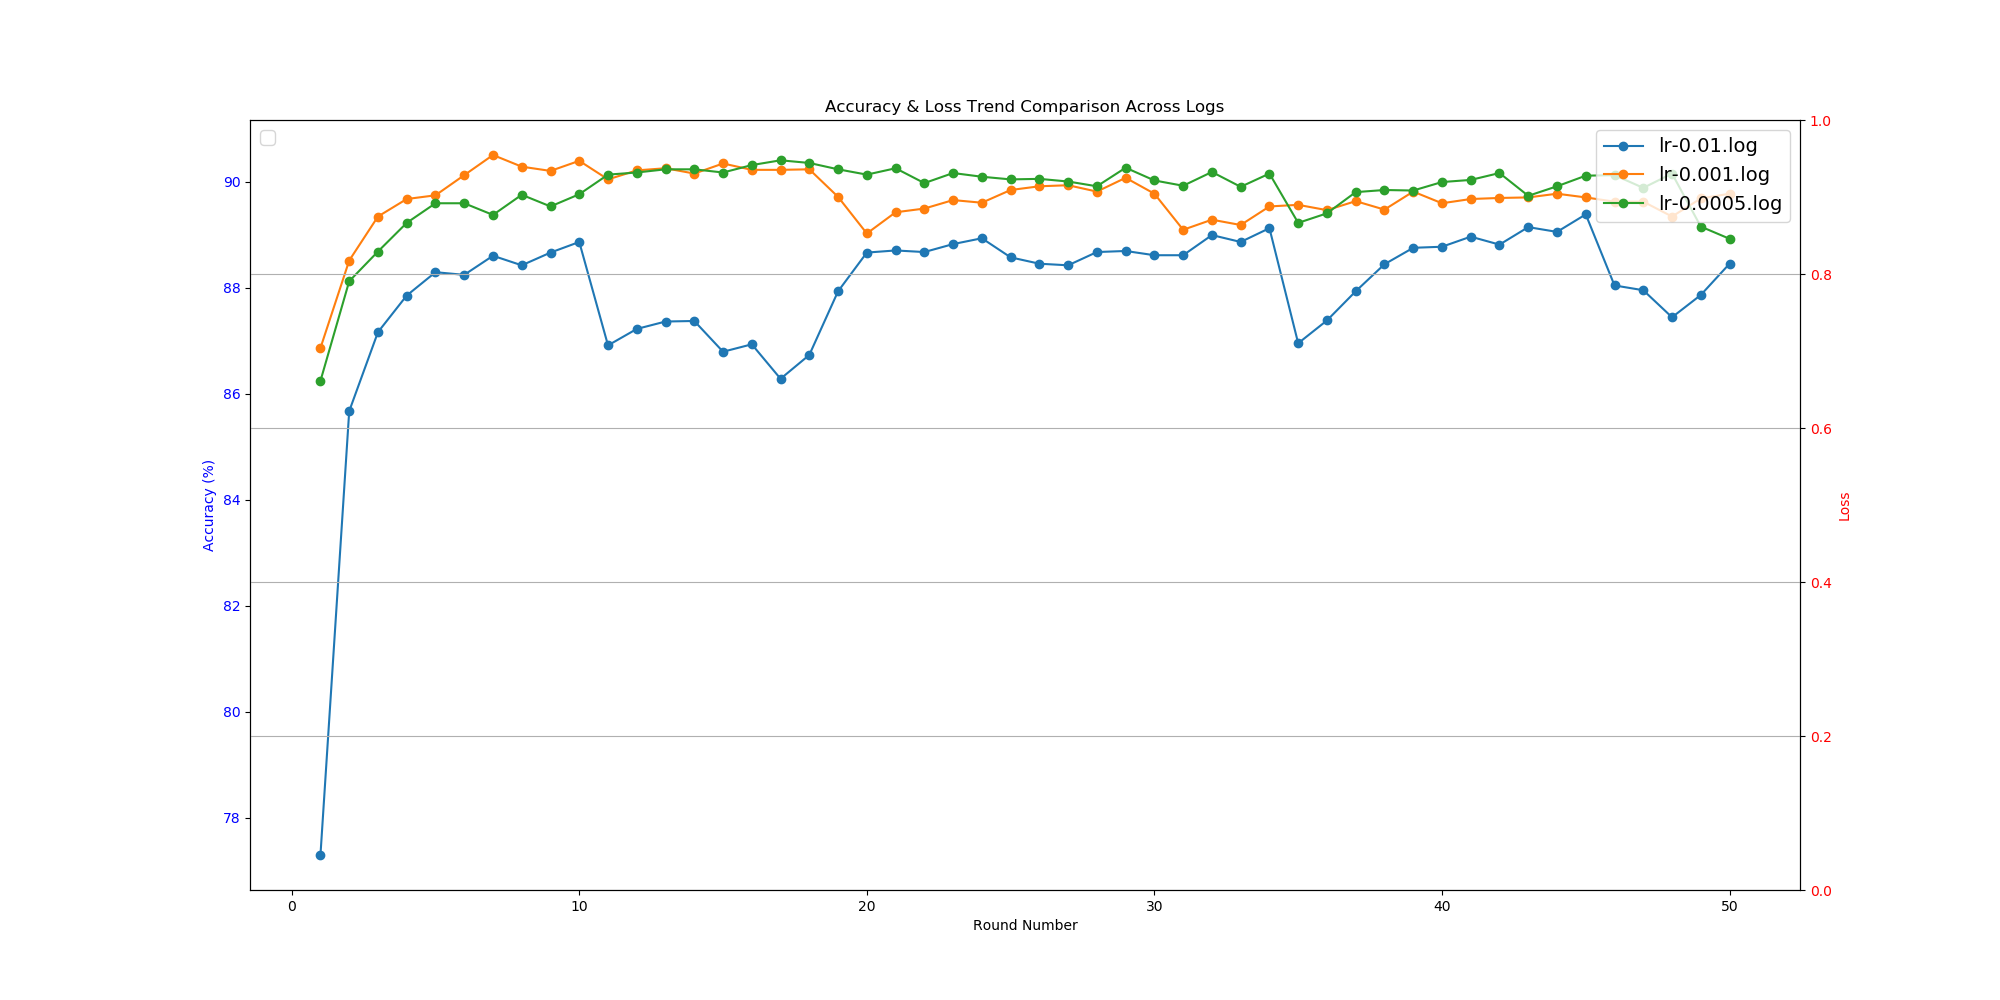
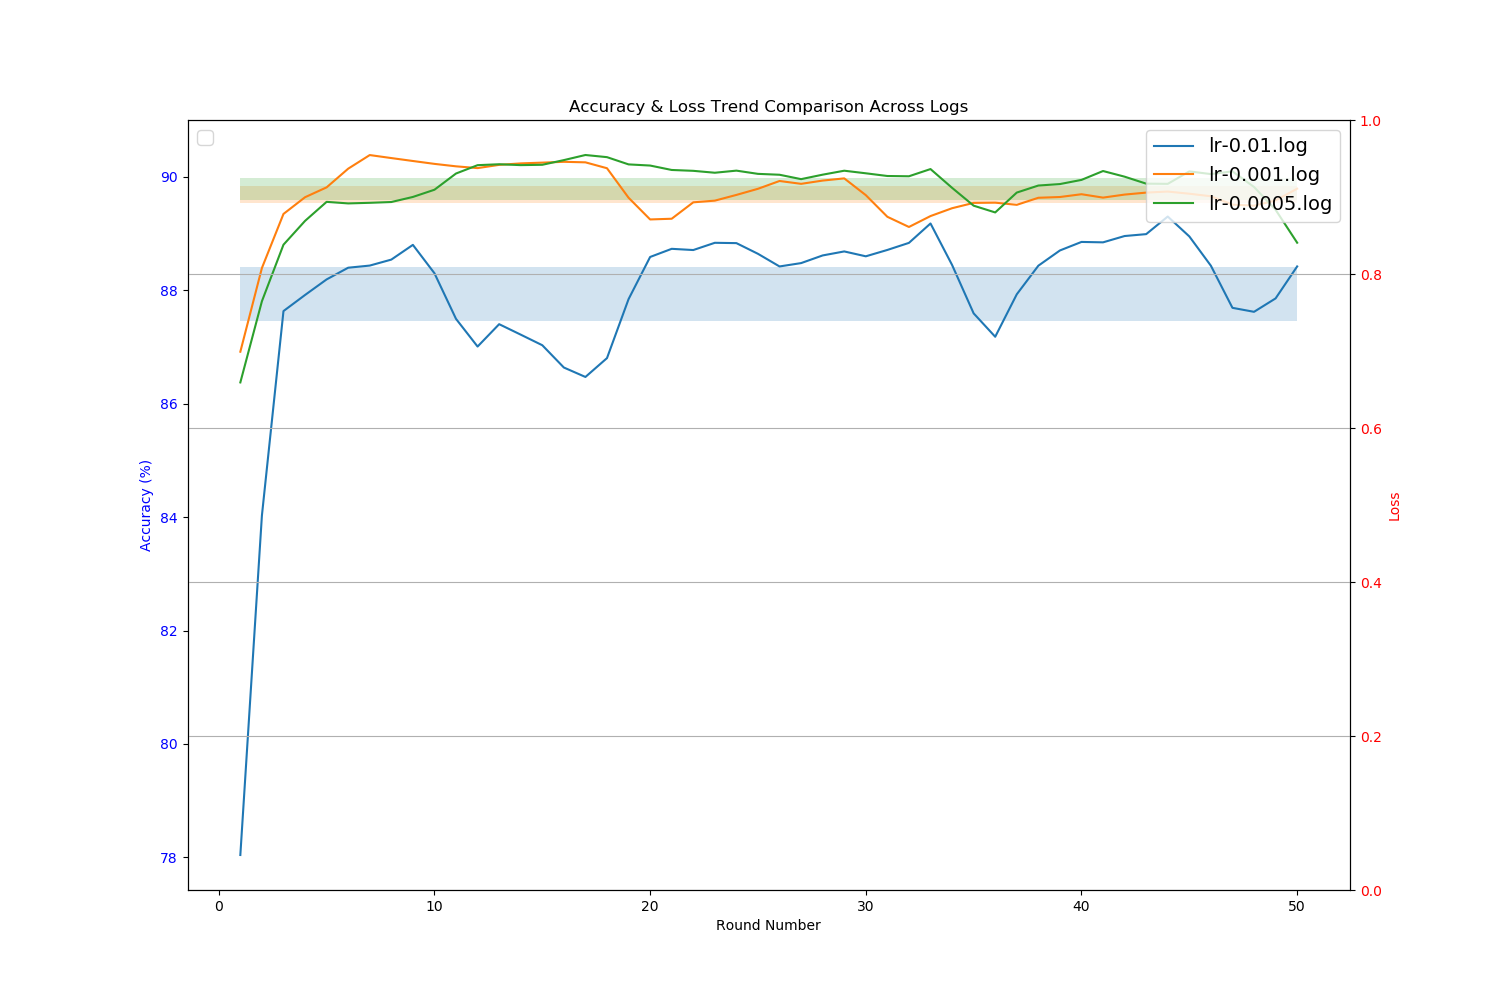
update of avg_plot

diff --git a/avg_plot.py b/avg_plot.py
@@ -1,0 +1,108 @@
+import argparse
+import re
+import matplotlib.pyplot as plt
+import numpy as np
+from scipy.signal import savgol_filter
+
+def smooth_data(y_values, window_size=23, poly_order=3):
+    return savgol_filter(y_values, window_size, poly_order)
+
+def parse_log(log_file, max_round, loss_curve):
+    """ 解析日志文件，提取轮数和准确率 """
+    rounds = []
+    accuracies = []
+    loss = []
+
+    round_pattern = re.compile(r"\*\*\*\* Round (\d+)/\d+ \*\*\*\*")
+    accuracy_pattern = re.compile(r"Average accuracy: (\d+\.\d+)%")
+    loss_pattern = re.compile(r"Loss: (\d+\.\d+)")
+
+    with open(log_file, "r", encoding="utf-8") as f:
+        for line in f:
+            round_match = round_pattern.search(line)
+            accuracy_match = accuracy_pattern.search(line)
+            loss_match = loss_pattern.search(line)
+
+            if round_match:
+                rounds.append(int(round_match.group(1)))
+
+            if loss_match and loss_curve:
+                loss.append(float(loss_match.group(1)))
+
+            if accuracy_match:
+                accuracies.append(float(accuracy_match.group(1)))
+
+            if len(rounds) >= max_round and len(accuracies) == len(rounds):
+                break
+
+    return rounds, accuracies, loss
+
+def plot_comparison(log_files_set1, log_files_set2, output_image, max_round, loss_curve_flag):
+    """ 绘制两组日志文件的平均曲线进行比较 """
+    plt.figure(figsize=(15, 10))
+    ax1 = plt.gca()  # 主 y 轴用于准确率
+    if loss_curve_flag:
+        ax2 = ax1.twinx()
+
+    def compute_average(log_files):
+        all_rounds = []
+        all_accuracies = []
+        all_losses = []
+        
+        for log_file in log_files:
+            log_file = "logs/" + log_file
+            rounds, accuracies, losses = parse_log(log_file, max_round, loss_curve_flag)
+            all_rounds.append(rounds)
+            all_accuracies.append(accuracies)
+            all_losses.append(losses)
+
+        common_rounds = all_rounds[0]
+        avg_accuracies = np.mean(np.array(all_accuracies), axis=0)
+        avg_losses = np.mean(np.array(all_losses), axis=0)
+
+        return common_rounds, avg_accuracies, avg_losses
+
+    rounds1, avg_accuracies1, avg_losses1 = compute_average(log_files_set1)
+    rounds2, avg_accuracies2, avg_losses2 = compute_average(log_files_set2)
+
+    smoothed_avg_accuracies1 = smooth_data(avg_accuracies1)
+    smoothed_avg_accuracies2 = smooth_data(avg_accuracies2)
+
+    ax1.plot(rounds1, smoothed_avg_accuracies1, linestyle='-', color='blue', label="Average Accuracy - Set 1")
+    ax1.plot(rounds2, smoothed_avg_accuracies2, linestyle='-', color='green', label="Average Accuracy - Set 2")
+
+    if loss_curve_flag:
+        smoothed_avg_losses1 = smooth_data(avg_losses1)
+        smoothed_avg_losses2 = smooth_data(avg_losses2)
+
+        ax2.plot(rounds1, smoothed_avg_losses1, linestyle='--', color='red', label="Average Loss - Set 1")
+        ax2.plot(rounds2, smoothed_avg_losses2, linestyle='--', color='orange', label="Average Loss - Set 2")
+
+    ax1.set_xlabel("Round Number")
+    ax1.set_ylabel("Accuracy (%)", color='b')
+    ax1.tick_params(axis='y', labelcolor='b')
+    ax1.set_title("Comparison of Two Average Accuracy & Loss Curves")
+    ax1.legend(loc="upper right", prop={'size': 14})
+    
+    if loss_curve_flag:
+        ax2.set_ylabel("Loss", color='r')
+        ax2.tick_params(axis='y', labelcolor='r')
+        ax2.legend(loc="upper left", prop={'size': 14})
+
+    plt.grid(True)
+    plt.savefig("charts/" + output_image)
+    plt.show()
+
+if __name__ == "__main__":
+    # 设置命令行参数解析
+    parser = argparse.ArgumentParser(description="Compare two sets of accuracy trend from log files.")
+    parser.add_argument('-f1', '--files_set1', type=str, nargs='+', required=True, help='First set of log file paths.')
+    parser.add_argument('-f2', '--files_set2', type=str, nargs='+', required=True, help='Second set of log file paths.')
+    parser.add_argument('-o', '--output', type=str, default='comparison.png', help='Output image filename.')
+    parser.add_argument('-r', '--rounds', type=int, default=50, help='Maximum rounds')
+    parser.add_argument('-l', '--loss', action="store_true", help="Draw loss curve")
+
+    args = parser.parse_args()
+    
+    # 运行比较函数
+    plot_comparison(args.files_set1, args.files_set2, args.output, args.rounds, args.loss)

diff --git a/dataInjection.py b/dataInjection.py
@@ -68,9 +68,9 @@ def data_injection(data, percentage, method):
         # label flipping
         if injection_option == "label_flip":
             data[i] = label_flip(sample)
-            logging.info('Pick #{} sample, flipping label {} to label {}'.format(i, label, data[i][1]))
+            logging.debug('Pick #{} sample, flipping label {} to label {}'.format(i, label, data[i][1]))
         elif injection_option == "false_sample":
             data[i] = false_sample(sample)
-            logging.info('Pick #{} sample, creating false sample of label {}'.format(i, label))
+            logging.debug('Pick #{} sample, creating false sample of label {}'.format(i, label))
             
     return data
